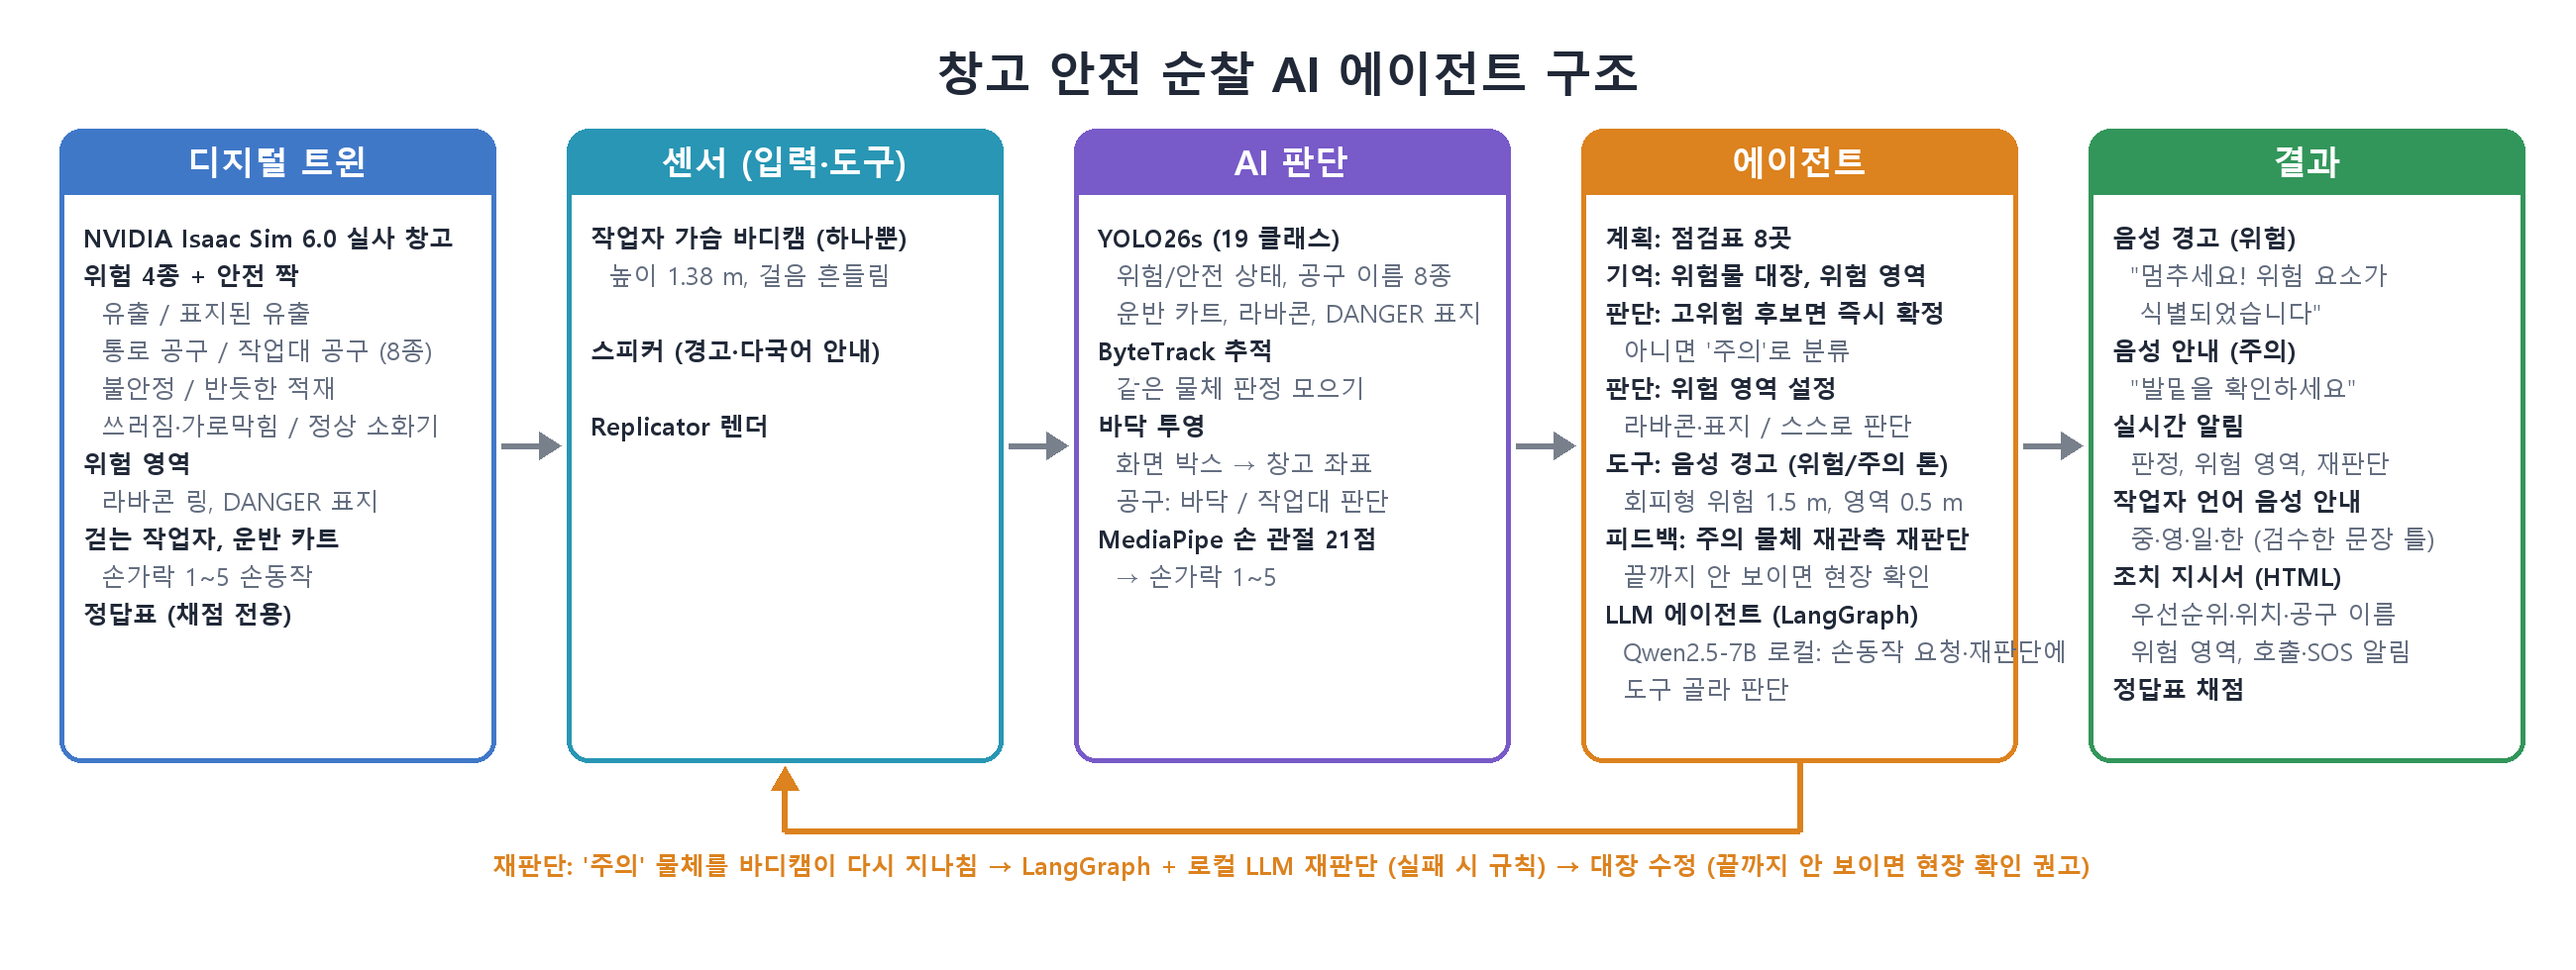
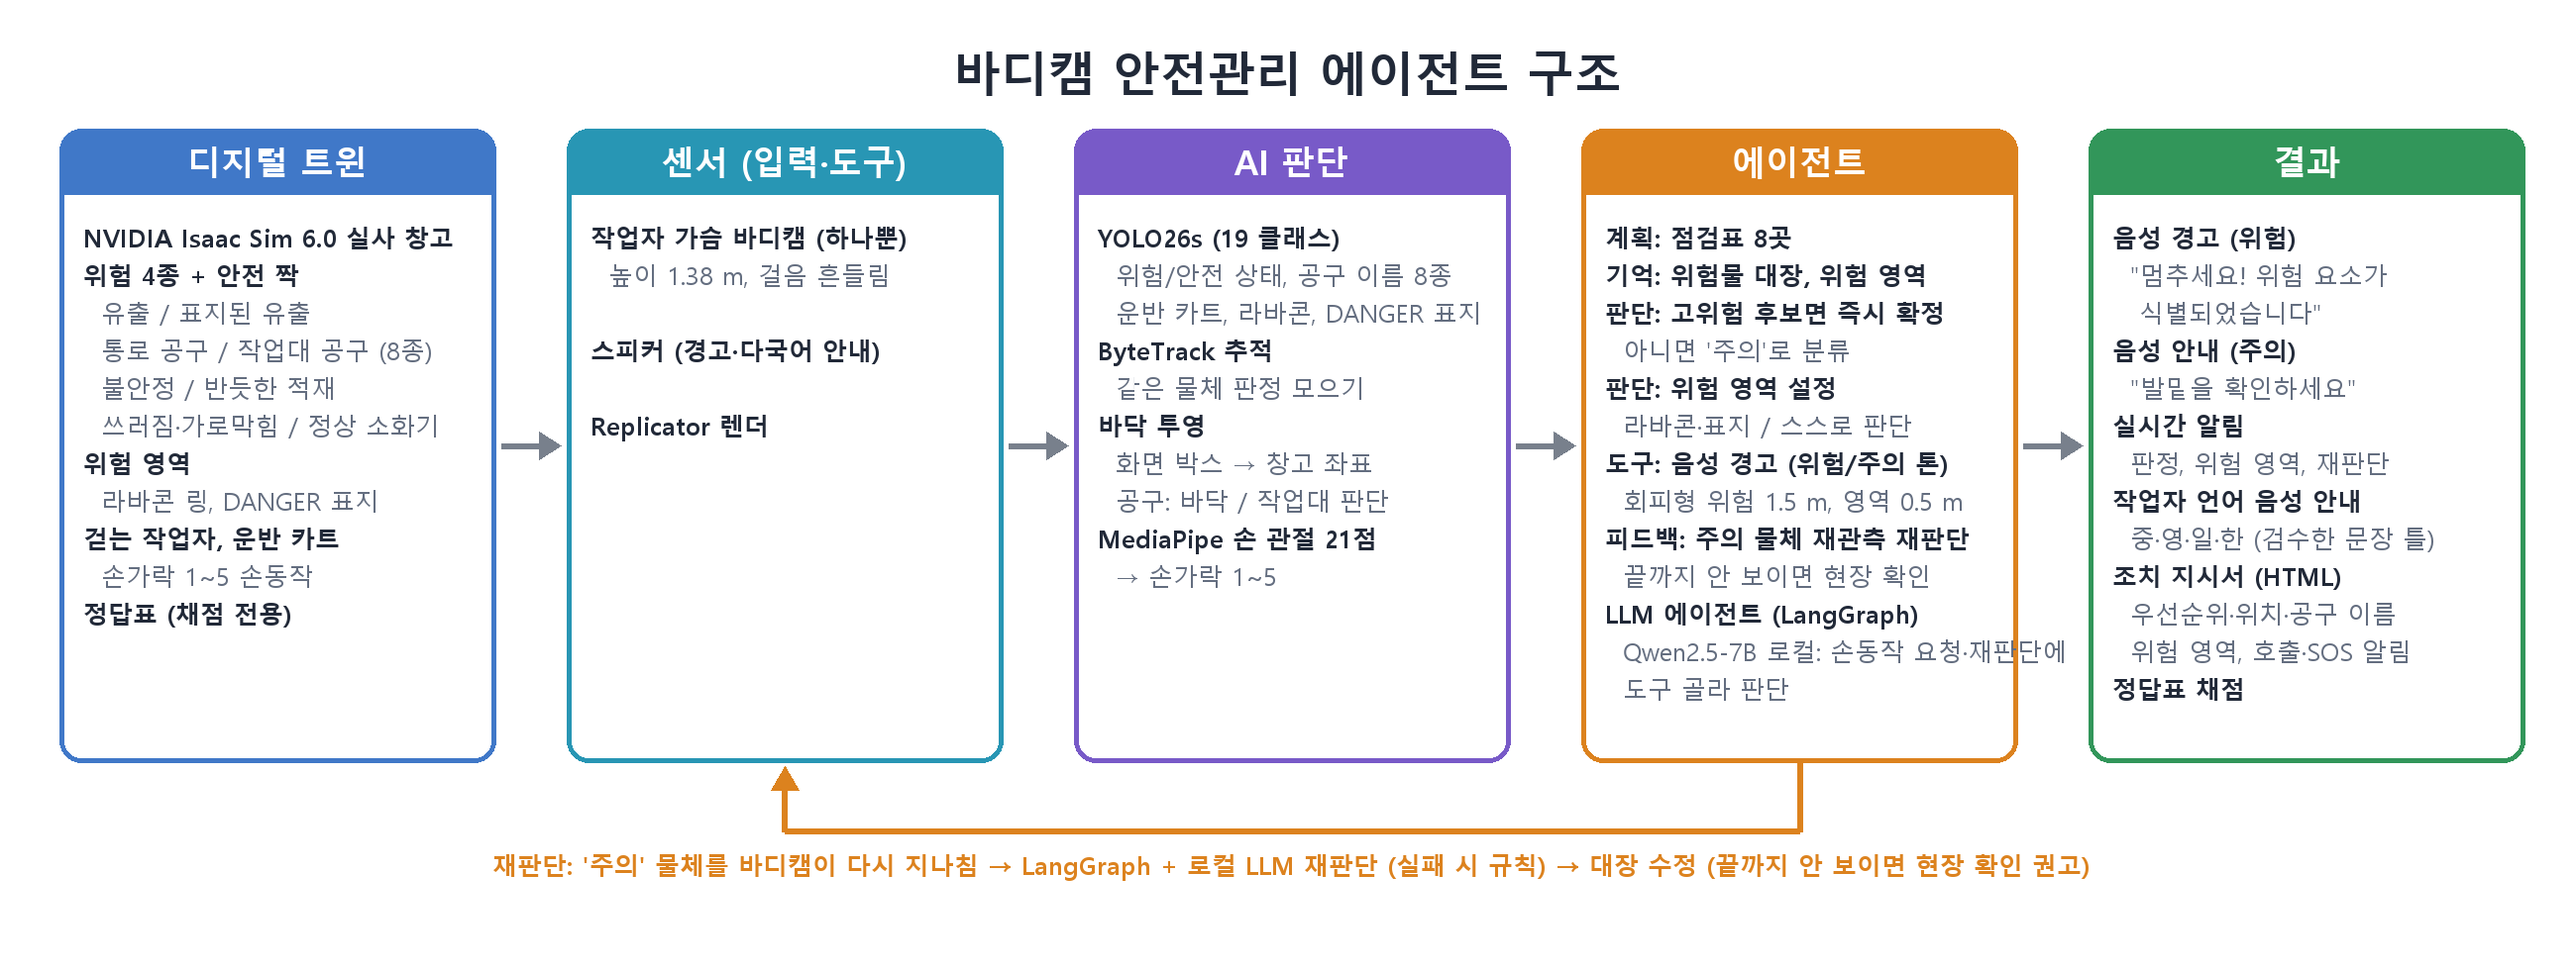
제목 변경: 창고 안전 순찰 → 외국인 근로자를 위한 바디캠 안전관리 에이전트
"순찰"은 지금 Isaac Sim 시뮬레이션이 재현 가능한 평가를 위해 정해진 경로를
걷게 한 방식일 뿐, 실제로는 작업자가 평소 업무 중 바디캠을 착용한 상태로
상시 작동하는 걸 목표로 한다. 핵심 차별점인 다국어 손동작 응답(외국인 근로자
대상)을 제목에 명시. README 도입부에 시뮬레이션 방식과 실제 배치 목표를
구분하는 설명 추가.

TITLE/SUBTITLE(make_docs.py, 제출 문서·발표자료에 전파), 대시보드 기본 제목,
시연 영상 타이틀 카드·HUD, 구조도 제목, 패키지 docstring 전부 반영.
`scripts/run_patrol.py`의 argparse 설명은 그대로 둠 — 이건 시뮬레이션 스크립트
자체의 기술적 설명이라 "순찰"이 정확함.

Changed region(s): [[0.3427, 0.0306, 0.6542, 0.1224]]

diff --git a/scripts/make_video.py b/scripts/make_video.py
@@ -170,7 +170,7 @@ def draw_map(d, ox, oy, st, alerts, path_pts):
 # ---------------------------------------------------------------- 화면 한 장
 def header(d, t, stage, live=True):
     d.rectangle([0, 0, WIDTH, 66], fill=(12, 16, 24))
-    text(d, (22, 12), "창고 안전 순찰 AI 에이전트", 30, bold=True)
+    text(d, (22, 12), "바디캠 안전관리 에이전트", 30, bold=True)
     text(d, (400, 22), f"Isaac Sim 시뮬레이션 · {'실시간 1배속' if live else ''} · {clock(t)}", 18, fill=MUTED)
     steps = ["① 입력: 바디캠·손동작", "② 판단: YOLO·위험 영역", "③ 도구: LLM 에이전트·음성", "④ 결과: 대장·조치 지시서"]
     x = 900
@@ -439,11 +439,11 @@ def main():
 
     seed = final["seed"]
     emit(card([(a.team, 30, FG, True), ("제4회 경남AI·SW경진대회 · 제조·피지컬 AI Agent", 26, MUTED, False), ("", 20, FG, False),
-               ("작업자 바디캠으로 창고를 순찰하며 위험/안전을 판정하고, 위험 영역을 잡아 닿기 전에 경고하는 AI 에이전트", 28, FG, False),
+               ("작업자가 평소처럼 착용하는 바디캠 하나로 위험/안전을 판정하고, 위험 영역을 잡아 닿기 전에 경고하는 AI 에이전트", 28, FG, False),
                ("애매하면 '주의'로 분류하고, 같은 물체를 바디캠이 다시 지나칠 때 로컬 LLM (Qwen2.5-7B, LangGraph) 이 재판단", 28, FG, False),
-               ("작업자가 손가락 1~5 를 보이면 장비 설명·공장 위험 스캔·TBM 안내·관리자 호출·SOS 를 작업자 언어로 처리", 26, (120, 220, 255), False),
+               ("한국어가 서툰 외국인 근로자도 손가락 1~5 로 장비 설명·위험 스캔·TBM 안내·관리자 호출·SOS 를 모국어로 안내받음", 26, (120, 220, 255), False),
                ("", 20, FG, False), (f"NVIDIA Isaac Sim 6.0 디지털 트윈 · YOLO26 · 시나리오 {seed}", 24, MUTED, False)],
-              title="창고 안전 순찰 AI 에이전트"), 5)
+              title="외국인 근로자를 위한 바디캠 안전관리 에이전트"), 5)
     emit(workflow_card(), 8)
     emit(plan_card(tl), 6)
     cache = {}

diff --git a/scripts/make_docs.py b/scripts/make_docs.py
@@ -28,8 +28,8 @@ GRAY = RGBColor(0x55, 0x5F, 0x6D)
 TEAM = "IBDP 팀"
 MEMBERS = "문상균, 이승혜, 조현준"
 DIVISION = os.environ.get("DIVISION", "대학부")
-TITLE = "창고 안전 순찰 AI 에이전트"
-SUBTITLE = "작업자 바디캠만으로 위험 요소를 판정하고, 애매하면 재관측으로 재판단하며, 손동작 명령에 작업자 언어로 답하는 피지컬 AI"
+TITLE = "외국인 근로자를 위한 바디캠 안전관리 에이전트"
+SUBTITLE = "작업자가 평소처럼 착용하는 바디캠 하나로 위험 요소를 판정하고, 애매하면 재관측으로 재판단하며, 손동작 명령에 작업자 모국어로 답하는 피지컬 AI"
 REPO = "https://github.com/HardLeona/factory-safety-isaac"
 N_TESTS = 29
 sys.path.insert(0, ROOT)

diff --git a/factory_safety/dashboard.py b/factory_safety/dashboard.py
@@ -118,7 +118,7 @@ def llm_note(e):
             f'<br>{html.escape(" → ".join(m.get("trace") or []))}</span>')
 
 
-def write_dashboard(path, rep, evaluation=None, seed=None, title="창고 안전 순찰 조치 지시서"):
+def write_dashboard(path, rep, evaluation=None, seed=None, title="바디캠 안전관리 조치 지시서"):
     s = rep["summary"]
     tl = "".join(f'<li><span class="t">{clock(e["t"])}</span><span class="k k{e["kind"].replace(" ", "")}">{e["kind"]}</span>'
                  f'{html.escape(e["text"])}</li>' for e in rep["timeline"] if e["kind"] != "계획" or "점검표" not in e["text"])

diff --git a/scripts/make_figures.py b/scripts/make_figures.py
@@ -43,7 +43,7 @@ def architecture(path):
     W_, H_ = 2600, 980
     im = Image.new("RGB", (W_, H_), (255, 255, 255))
     d = ImageDraw.Draw(im)
-    d.text((W_ / 2, 40), "창고 안전 순찰 AI 에이전트 구조", font=f(48, True), fill=INK, anchor="ma")
+    d.text((W_ / 2, 40), "바디캠 안전관리 에이전트 구조", font=f(48, True), fill=INK, anchor="ma")
     bw, gap, top, bh = 440, 72, 130, 640
     xs = [60 + i * (bw + gap) for i in range(5)]
     box(d, (xs[0], top, xs[0] + bw, top + bh), "디지털 트윈", [

diff --git a/factory_safety/__init__.py b/factory_safety/__init__.py
@@ -1,4 +1,4 @@
-"""창고 안전 순찰 (Isaac Sim): 작업자 바디캠 + YOLO 위험/안전 판정 + 위험물 1.5 m 접근 음성 경고.
+"""외국인 근로자를 위한 바디캠 안전관리 에이전트 (Isaac Sim): 작업자 바디캠 + YOLO 위험/안전 판정 + 위험물 1.5 m 접근 음성 경고.
 
 Isaac 없이 쓰는 모듈: config, warehouse, scenario, walker, walk_anim(수식), geometry, dataset, inspection, report, detector
 pxr(OpenUSD) 필요: scene

diff --git a/README.md b/README.md
@@ -1,6 +1,9 @@
-# 🏭 창고 안전 순찰 AI 에이전트 · Isaac Sim
+# 🦺 외국인 근로자를 위한 바디캠 안전관리 에이전트 · Isaac Sim
 
-> 작업자가 정해진 경로를 걸으며 **가슴 바디캠 하나**로 찍으면, **YOLO** 가 물체마다 **진짜 위험한지 아닌지** 판정합니다.
+> 작업자가 **가슴 바디캠 하나**를 차고 평소처럼 일하면, **YOLO** 가 화면에 보이는 물체마다 **진짜 위험한지 아닌지** 실시간으로 판정합니다.
+> (지금 Isaac Sim 시뮬레이션은 재현 가능한 평가를 위해 정해진 경로를 걷게 했지만, 실제 배치 시에는 작업자가 평소 업무 중 착용한
+> 상태로 상시 작동하는 것을 목표로 합니다. 한국어가 서툰 **외국인 근로자**도 모국어 음성으로 위험을 안내받을 수 있도록
+> 손동작 명령·다국어 응답을 핵심으로 설계했습니다.)
 > **안전 에이전트**는 판정을 위험물 대장에 모으고, 후보 중 **고위험 클래스가 하나라도 있으면 그 자리에서 즉시 위험으로 확정**합니다(미탐을 줄이는 쪽).
 > 저위험 후보만 있어 안전·위험을 가르지 못하면 **"주의"로 분류**해 두고, 작업자가 순찰 중 **같은 물체를 바디캠으로 자연스럽게 다시 지나치면**
 > **로컬 LLM(LangGraph + Qwen2.5-7B)** 이 그동안 쌓인 증거로 위험/안전을 재판단합니다 (LLM이 없거나 실패하면 규칙으로 대신 판단).
